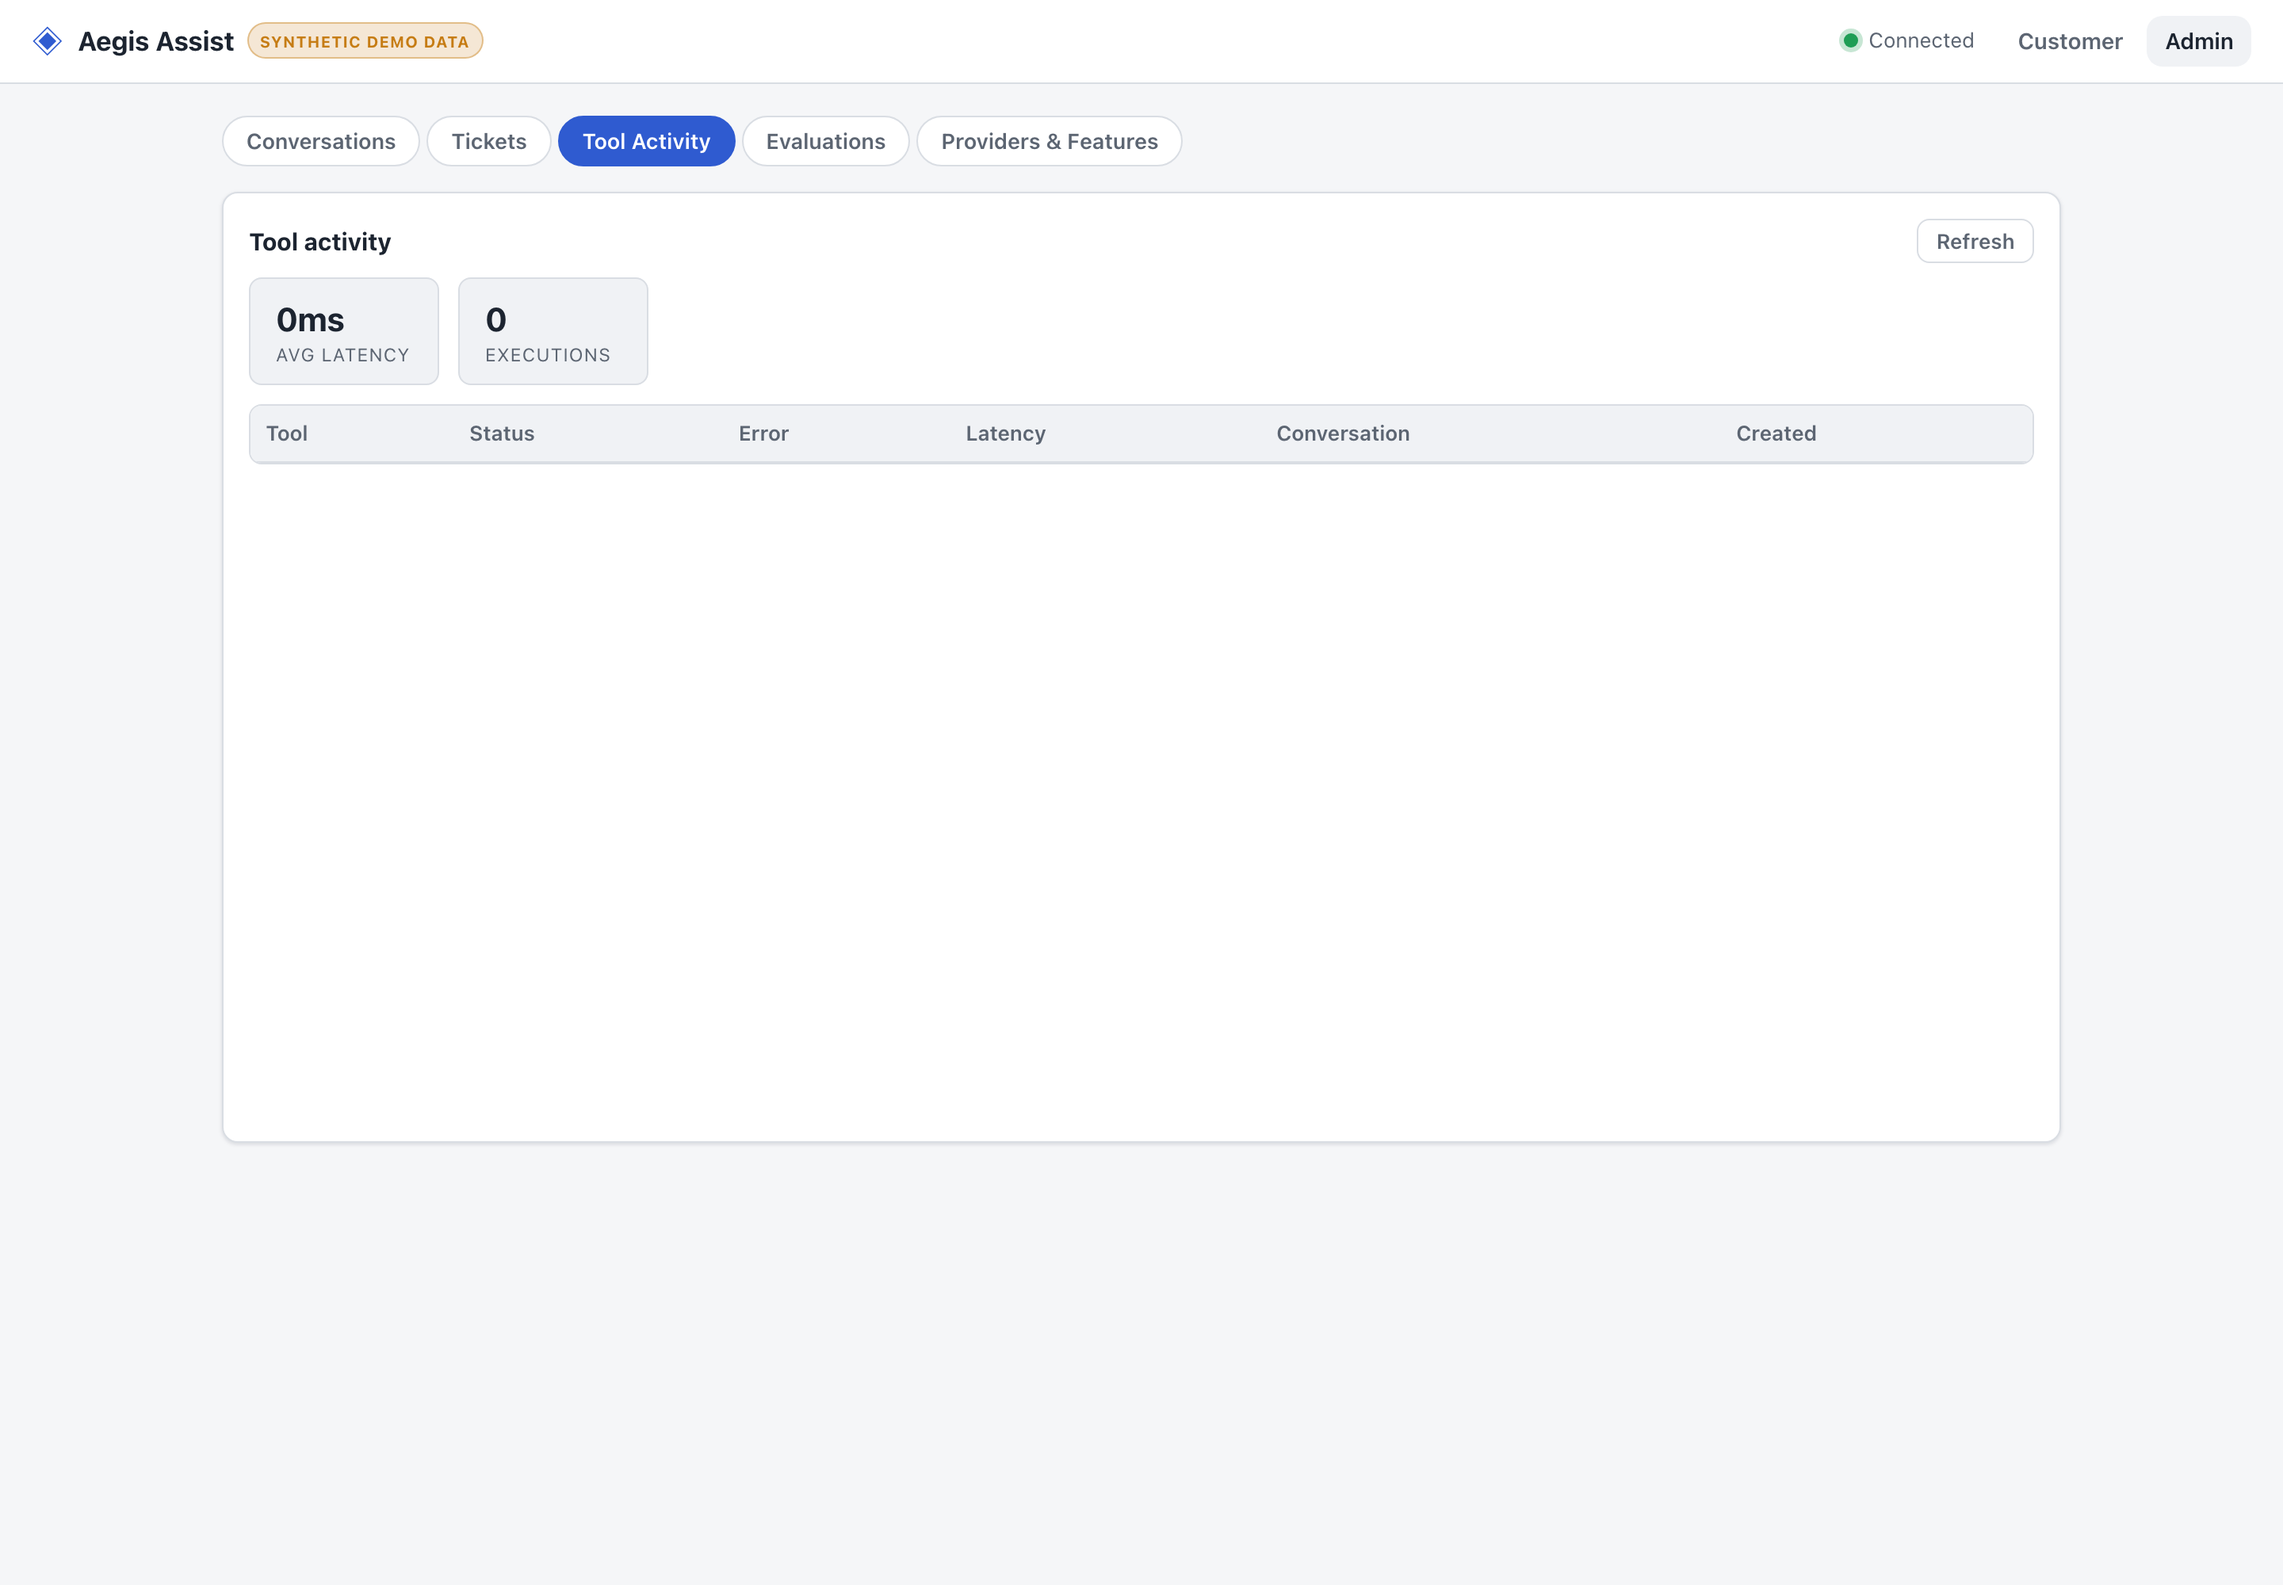
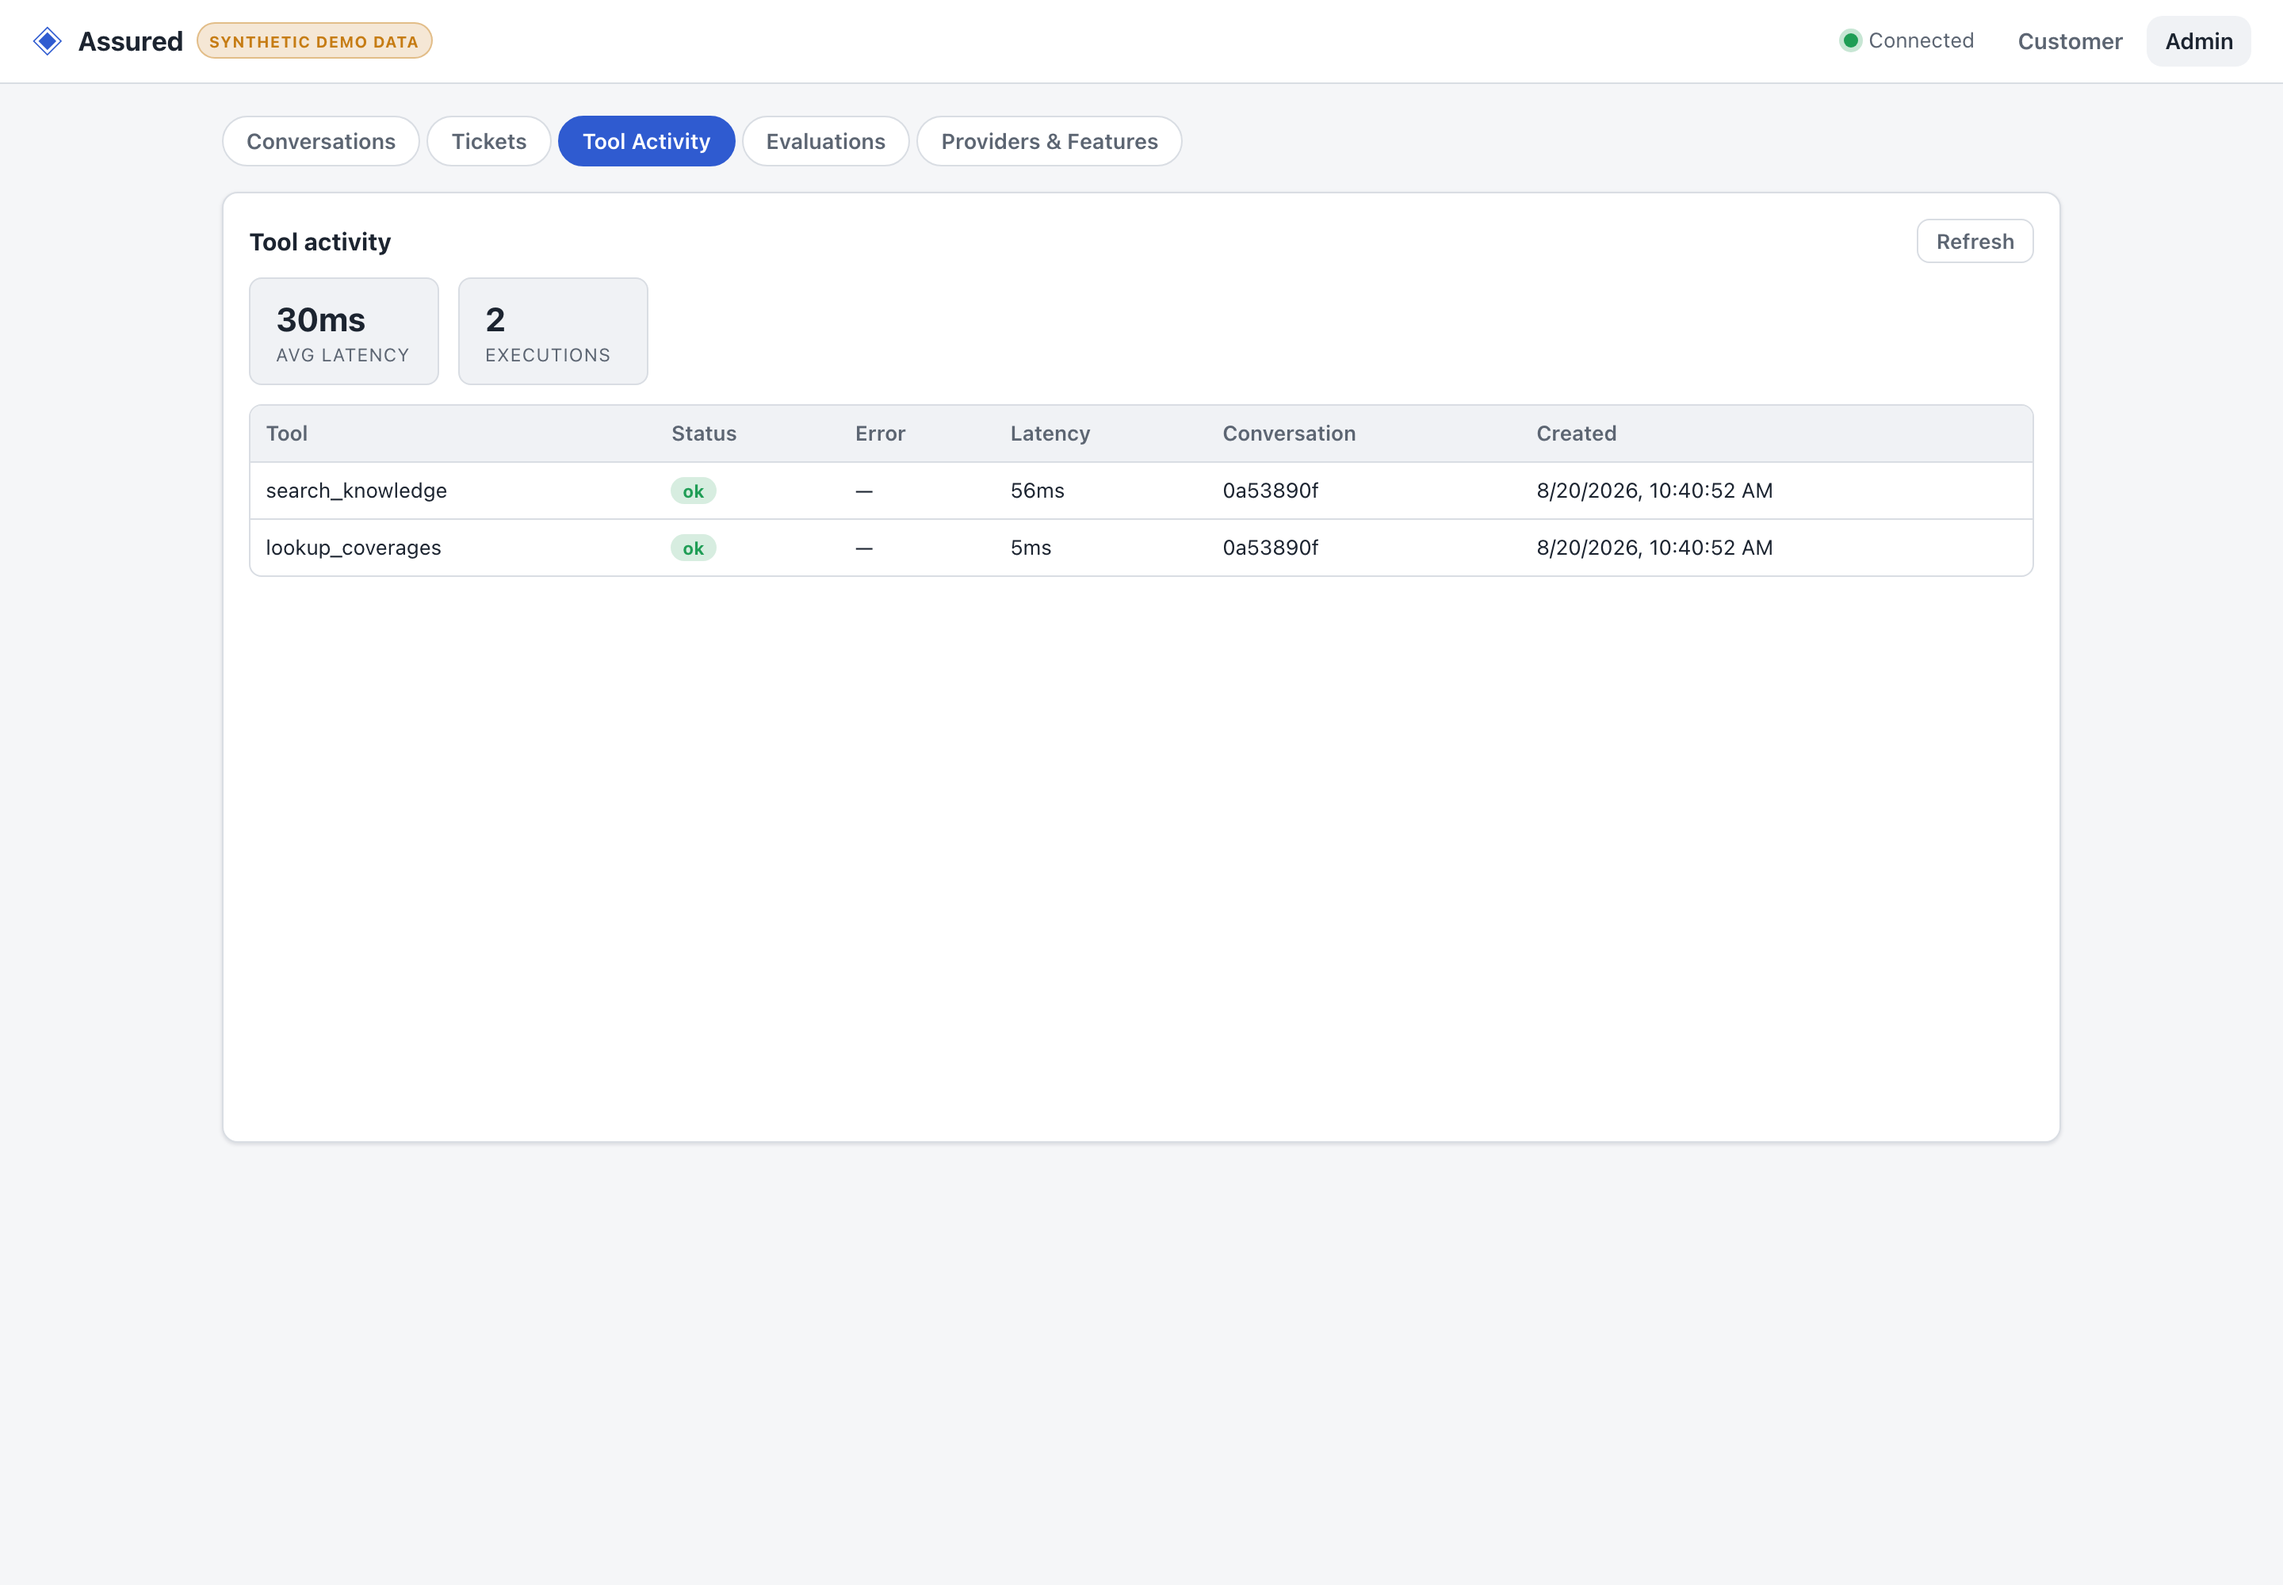
Rebrand to "Assured — Multimodal Voice-to-Voice Insurance AI" (UI, docs, screenshots, API title)

diff --git a/apps/web/src/App.tsx b/apps/web/src/App.tsx
@@ -26,7 +26,9 @@ function Header() {
           ◈
         </span>
         <div className="app-title-wrap">
-          <span className="app-title">Aegis Assist</span>
+          <span className="app-title" title="Multimodal Voice-to-Voice Insurance AI">
+            Assured
+          </span>
           <span className="badge badge-synthetic">SYNTHETIC DEMO DATA</span>
         </div>
       </div>

diff --git a/apps/web/index.html b/apps/web/index.html
@@ -4,7 +4,7 @@
     <meta charset="UTF-8" />
     <meta name="viewport" content="width=device-width, initial-scale=1.0" />
     <meta name="color-scheme" content="light dark" />
-    <title>Aegis Assist — Insurance Customer Service (Synthetic Demo)</title>
+    <title>Assured — Multimodal Voice-to-Voice Insurance AI (Synthetic Demo)</title>
   </head>
   <body>
     <div id="root"></div>

diff --git a/apps/api/insurance_ai/api/app.py b/apps/api/insurance_ai/api/app.py
@@ -29,7 +29,11 @@ async def lifespan(app: FastAPI):
 
 def create_app() -> FastAPI:
     settings = get_settings()
-    app = FastAPI(title="Insurance AI", version=__version__, lifespan=lifespan)
+    app = FastAPI(
+        title="Assured — Multimodal Voice-to-Voice Insurance AI",
+        version=__version__,
+        lifespan=lifespan,
+    )
     app.add_middleware(
         CORSMiddleware,
         allow_origins=["*"],

diff --git a/README.md b/README.md
@@ -1,4 +1,7 @@
-# Insurance AI — Multimodal Customer Service Platform
+# Assured — Multimodal Voice-to-Voice Insurance AI
+
+*One assistant orchestrating multiple models (LLM · STT · TTS · embeddings) — that
+answers only what it can verify.*
 
 A realistic, **fully synthetic** AI customer-service system for an insurance company.
 It supports text and voice (text↔text, text↔voice, voice↔text, voice↔voice), a

diff --git a/apps/web/README.md b/apps/web/README.md
@@ -1,4 +1,4 @@
-# Aegis Assist — Web (Synthetic Demo)
+# Assured — Web (Synthetic Demo)
 
 Multimodal AI insurance customer-service demo UI. React 18 + TypeScript + Vite.
 All data is **synthetic**.
